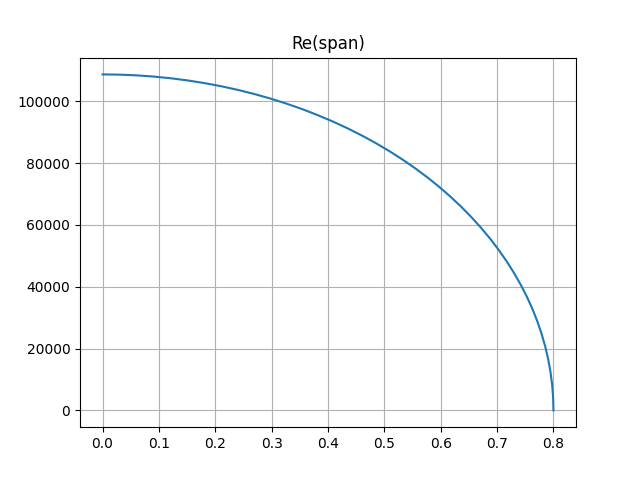
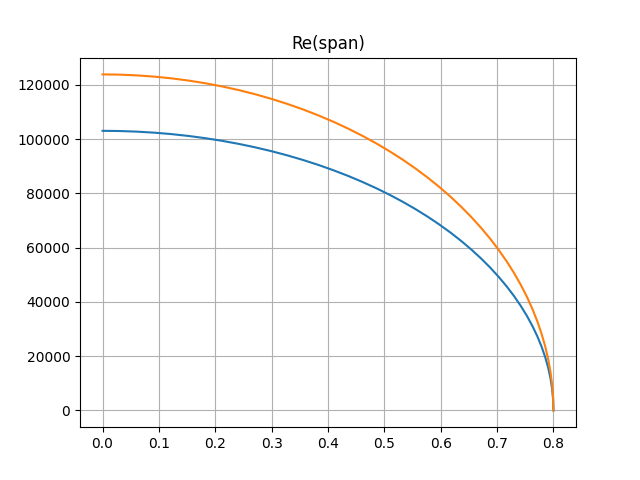
Deployed cccb47d with MkDocs version: 1.1.2

diff --git a/blenderKissSlope/index.html b/blenderKissSlope/index.html
@@ -82,7 +82,9 @@
         <ul>
     <li class="toctree-l3"><a class="reference internal" href="#surface-area">Surface area</a>
     </li>
-    <li class="toctree-l3"><a class="reference internal" href="#weight-velocity-an-re">Weight, velocity an Re</a>
+    <li class="toctree-l3"><a class="reference internal" href="#weight-minimal-velocity-an-re">Weight, minimal velocity an Re</a>
+    </li>
+    <li class="toctree-l3"><a class="reference internal" href="#re-at-normal-speed-flight">Re at normal &amp; speed flight</a>
     </li>
         </ul>
     </li>
@@ -172,17 +174,20 @@
 <p>You should see a quite flat mesh (not curved like in the original wing). The 3d Print aera now gives us 5128.7cm².
 The projected area is <span class="arithmatex">\(\frac{1}{2}\cdot 5128.7cm²=\textbf{0.2564m²}\)</span>
 <Br><span style="color:red"><strong>Note:</strong></span> this approach will not work when intersecting with a plane (don't ask me why). Therefore, I use a thin cube.</p>
-<h3 id="weight-velocity-an-re">Weight, velocity an Re</h3>
-<p>I currently estimate the total weight to 1000g (actually 800g, but we need to estimate with a bit of safety margin).</p>
+<h3 id="weight-minimal-velocity-an-re">Weight, minimal velocity an Re</h3>
+<p>I currently estimate the total weight to 900g and 1300g including some extra ballast (actually 800g, but we need to estimate with a bit of safety margin).</p>
 <p>Togehter with the surface area we can now determine <span class="arithmatex">\(v\)</span> from <a href="../aeroEqn/#mjx-eqn-eq:velocityFromMass">basics (2)</a>, if we make use of the <span style="color:red">hypothesis</span> <span class="arithmatex">\(c_{L}\approx 1.0\)</span>. We will cross-check this later!</p>
-<p><span class="arithmatex">\(v_{min}=\sqrt{\frac{2\cdot 1kg\cdot 9.81 m/s²}{1.1673kg/m³\cdot 1.0 \cdot 0.2564m²}}=8.1 m/s\)</span></p>
+<p><span class="arithmatex">\(v_{min900g}=\sqrt{\frac{2\cdot 0.9kg\cdot 9.81 m/s²}{1.1673kg/m³\cdot 1.0 \cdot 0.2564m²}}=7.68 m/s\)</span></p>
+<p><span class="arithmatex">\(v_{min1300g}=\sqrt{\frac{2\cdot 1.3kg\cdot 9.81 m/s²}{1.1673kg/m³\cdot 1.0 \cdot 0.2564m²}}=9.23 m/s\)</span></p>
 <p>Inserting in <a href="../aeroEqn/#mjx-eqn-eq:reynolds">basics (3)</a> allows us to plot the Reynolds number over span: 
-<img alt="" src="../assets/images/Fig_ReSpan.png" title="" /></p>
+<img alt="" src="../assets/images/Fig_ReSpan.png" title="" />
+<br>for <span style="color:orange">1300g</span> and <span style="color:blue">900g</span></p>
 <p>Using xflr5 for analysis <a href="../xlfr5GettingStarted/#tutorial-notes">T1: 6:45</a> allows us to check our <span style="color:red">hypothesis</span> <span class="arithmatex">\(c_{L}\approx 1.0\)</span> from above:</p>
-<p><a href="../assets/images/xfl_1.png"><img alt="" src="../assets/images/xfl_1.png" title="" /></a></p>
-<p>See the Cl/ALPHA plot (upper mid): for <span class="arithmatex">\(Re&gt;40.000\)</span> corrsponding to <span class="arithmatex">\(\sim 93\%\)</span> of the wing span, <span class="arithmatex">\(c_{l}&gt;1.0\)</span> (note that we use a small index here, as it is a local variable - for the given location).</p>
+<p><a href="../assets/images/xfl_1.png"><img alt="" src="../assets/images/xfl_1.png" title="" /></a>
+<br>Click the image to enlarge.
+<br>See the Cl/ALPHA plot (upper mid): for <span class="arithmatex">\(Re&gt;40.000\)</span> corrsponding to <span class="arithmatex">\(\sim 93\%\)</span> of the wing span, <span class="arithmatex">\(c_{l}&gt;1.0\)</span> (note that we use a small index here, as it is a local variable - for the given location).</p>
 <p>The inner region (with larger chord) even provides us a safety margin, compensating the decreasing lift at the outer sections of the wing. And this is still the <em>plain vanilla</em> MH30_pk profile!</p>
-<p><strong>Resume:</strong> For a plane lighther than 1kg, faster than 8.1m/s, our hypothesis <span class="arithmatex">\(c_{L}\not\lt 1.0\)</span> therefore holds with safety margin, which means we can maintain height.
+<p><strong>Resume:</strong> For a plane lighther than 900g, faster than 7.68m/s (lighter than 1300g, faster than 9.23m/s), our hypothesis <span class="arithmatex">\(c_{L}\not\lt 1.0\)</span> therefore holds with safety margin, which means we can maintain height.
 <br><br><span style="color:red"><strong>But:</strong></span> Regarding <em>stability</em> we would require that flow seperation and hence drop of <span class="arithmatex">\(c_{l}\)</span> should begin at the inner part of the wing (close to the fuselage) and not from the wingtips.
 <br>Why?
 <br>In the first case, the result will be a plane loosing height (sagging) but still being controllable.
@@ -193,6 +198,10 @@ The projected area is <span class="arithmatex">\(\frac{1}{2}\cdot 5128.7cm²=\te
 <li>Geometrically decreasig the angle of attack towards wing tips (<a href="https://en.wikipedia.org/wiki/Washout_(aeronautics)">twist / washout</a>), which is inefficient (as the drag increases).</li>
 <li>A better alternative are aerodynamic means: designing and using a profile with adequate <span class="arithmatex">\(c_{l} / c_{d}\)</span> for the outer wing region,</li>
 </ul>
+<h3 id="re-at-normal-speed-flight">Re at normal &amp; speed flight</h3>
+<p>The considerations above are important for slow flight &amp; high lift situations (thermal climbing, landing, tack).
+<br>However, at normal flight in good conditions, the Re will be much larger. In these situations, it is important to have low <span class="arithmatex">\(c_D\)</span>. To get an impression, I plot Re(span) for slow, medium and high speed normal flight:
+<img alt="" src="../assets/images/Fig_ReSpan_fast.png" title="" /></p>
               
             </div>
           </div>

diff --git a/index.html b/index.html
@@ -246,5 +246,5 @@ I hope you can follow all of this; if not, feel free to ask in the <a href="http
 
 <!--
 MkDocs version : 1.1.2
-Build Date UTC : 2020-12-05 13:01:28.409944+00:00
+Build Date UTC : 2020-12-12 14:36:24.448185+00:00
 -->
